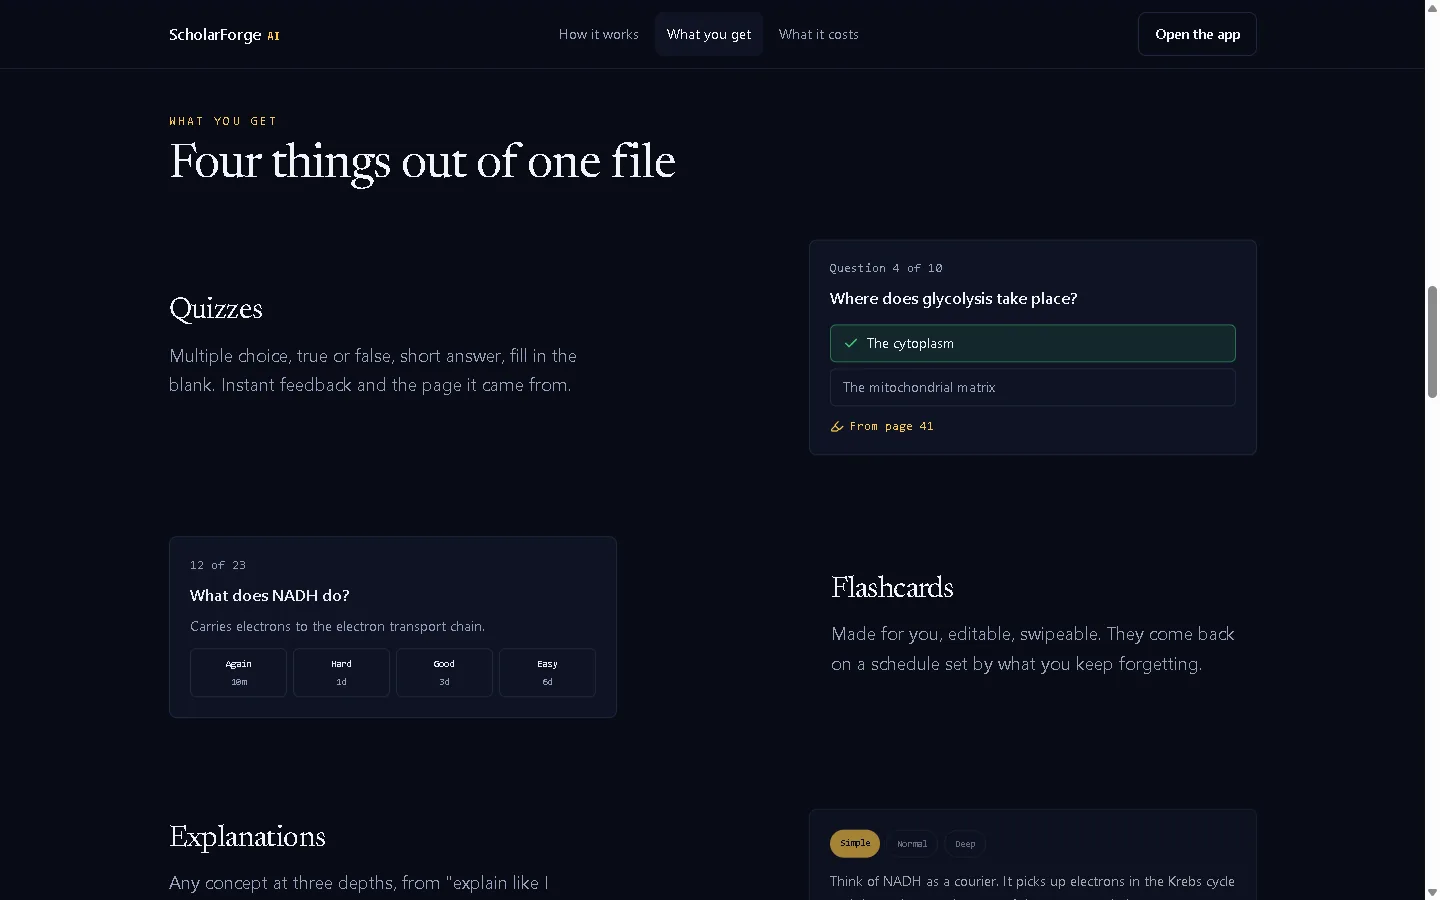
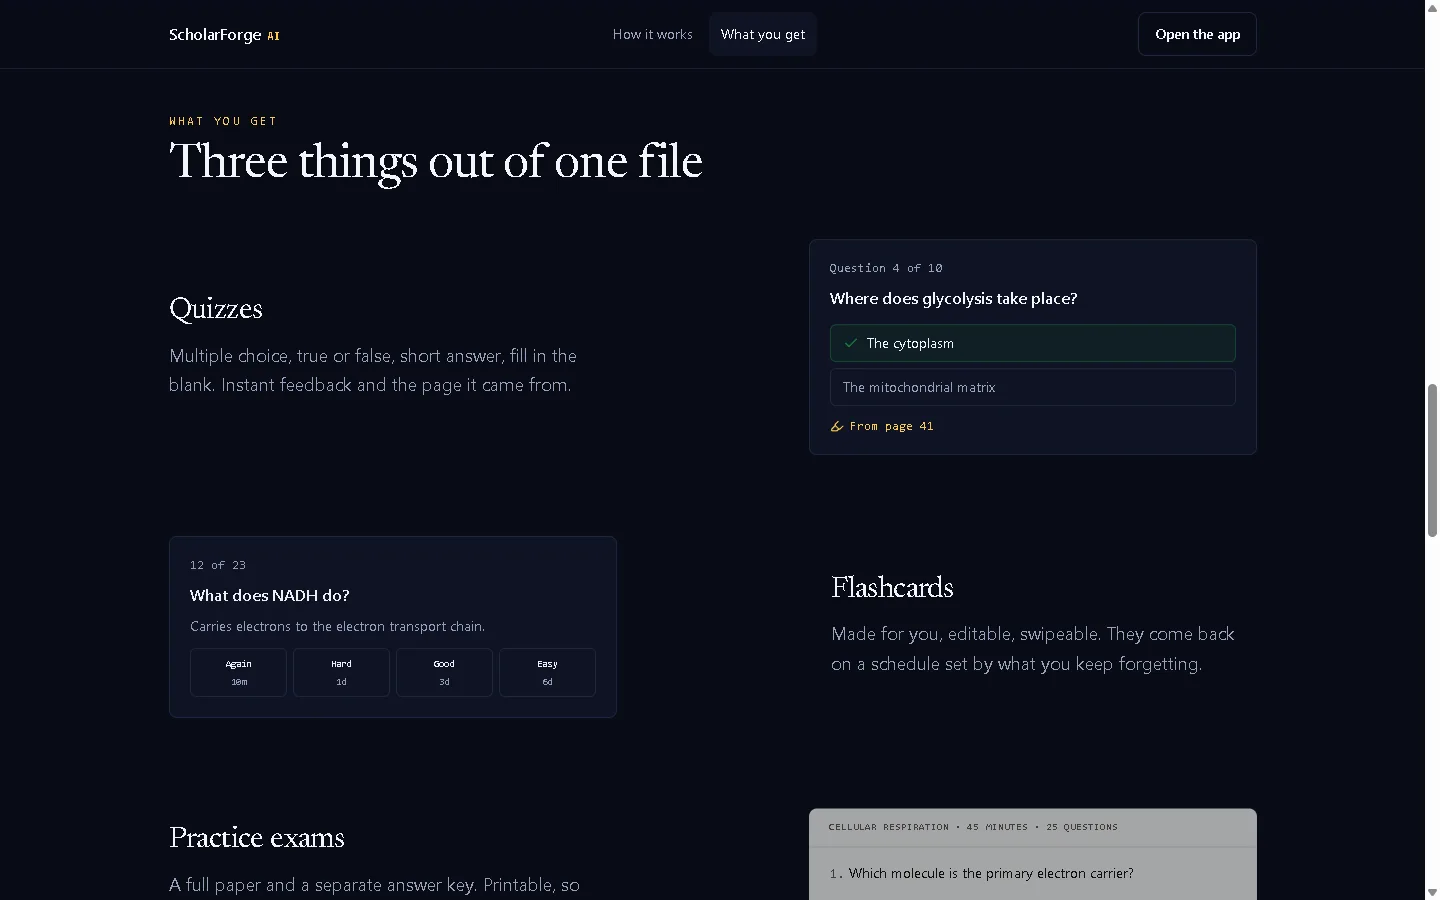
content: refresh ScholarForge AI showcase (stack, description, screenshots)

diff --git a/src/data/projects.ts b/src/data/projects.ts
@@ -146,20 +146,20 @@ export const projects: Project[] = [
     badge: 'AI · STUDY TOOL',
     badgeStyle: 'violet',
     description:
-      'Turns a PDF, slide deck, or set of notes into quizzes, flashcards, and practice exams, entirely on-device. Parsing, storage, search, and spaced-repetition scheduling all run in the browser; the server only holds the API key and checks that every generated question cites a real passage from the source document before it reaches you. Wrong answers show the exact page the correct answer came from.',
-    stack: 'React, TypeScript, Vite, Dexie/IndexedDB, Vercel, Gemini',
-    image: '/assets/projects/scholarforge.png',
+      'Turns a PDF, slide deck, or set of notes into quizzes, flashcards, and practice exams, entirely on-device. Parsing, storage, search, and FSRS spaced-repetition scheduling all run in the browser; the server only holds the API key and checks that every generated question quotes real text from the source document, not just a real page number, before it reaches you. Wrong answers show the exact passage the correct answer came from. Preferences sync live across devices via Firebase, and study data can be backed up to the cloud on demand.',
+    stack: 'React, TypeScript, Vite, Dexie/IndexedDB, Firebase, Vercel, Groq',
+    image: '/assets/projects/scholarforge.webp',
     images: [
-      '/assets/projects/scholarforge.png',
-      '/assets/projects/scholarforge2.png',
-      '/assets/projects/scholarforge3.png',
-      '/assets/projects/scholarforge4.png',
-      '/assets/projects/scholarforge5.png',
-      '/assets/projects/scholarforge6.png',
-      '/assets/projects/scholarforge7.png',
-      '/assets/projects/scholarforge8.png',
-      '/assets/projects/scholarforge9.png',
-      '/assets/projects/scholarforge10.png',
+      '/assets/projects/scholarforge.webp',
+      '/assets/projects/scholarforge2.webp',
+      '/assets/projects/scholarforge3.webp',
+      '/assets/projects/scholarforge4.webp',
+      '/assets/projects/scholarforge5.webp',
+      '/assets/projects/scholarforge6.webp',
+      '/assets/projects/scholarforge7.webp',
+      '/assets/projects/scholarforge8.webp',
+      '/assets/projects/scholarforge9.webp',
+      '/assets/projects/scholarforge10.webp',
     ],
     link: 'https://scholar-forge-ai.vercel.app',
     repo: 'https://github.com/dooddles07/ScholarForgeAI',
